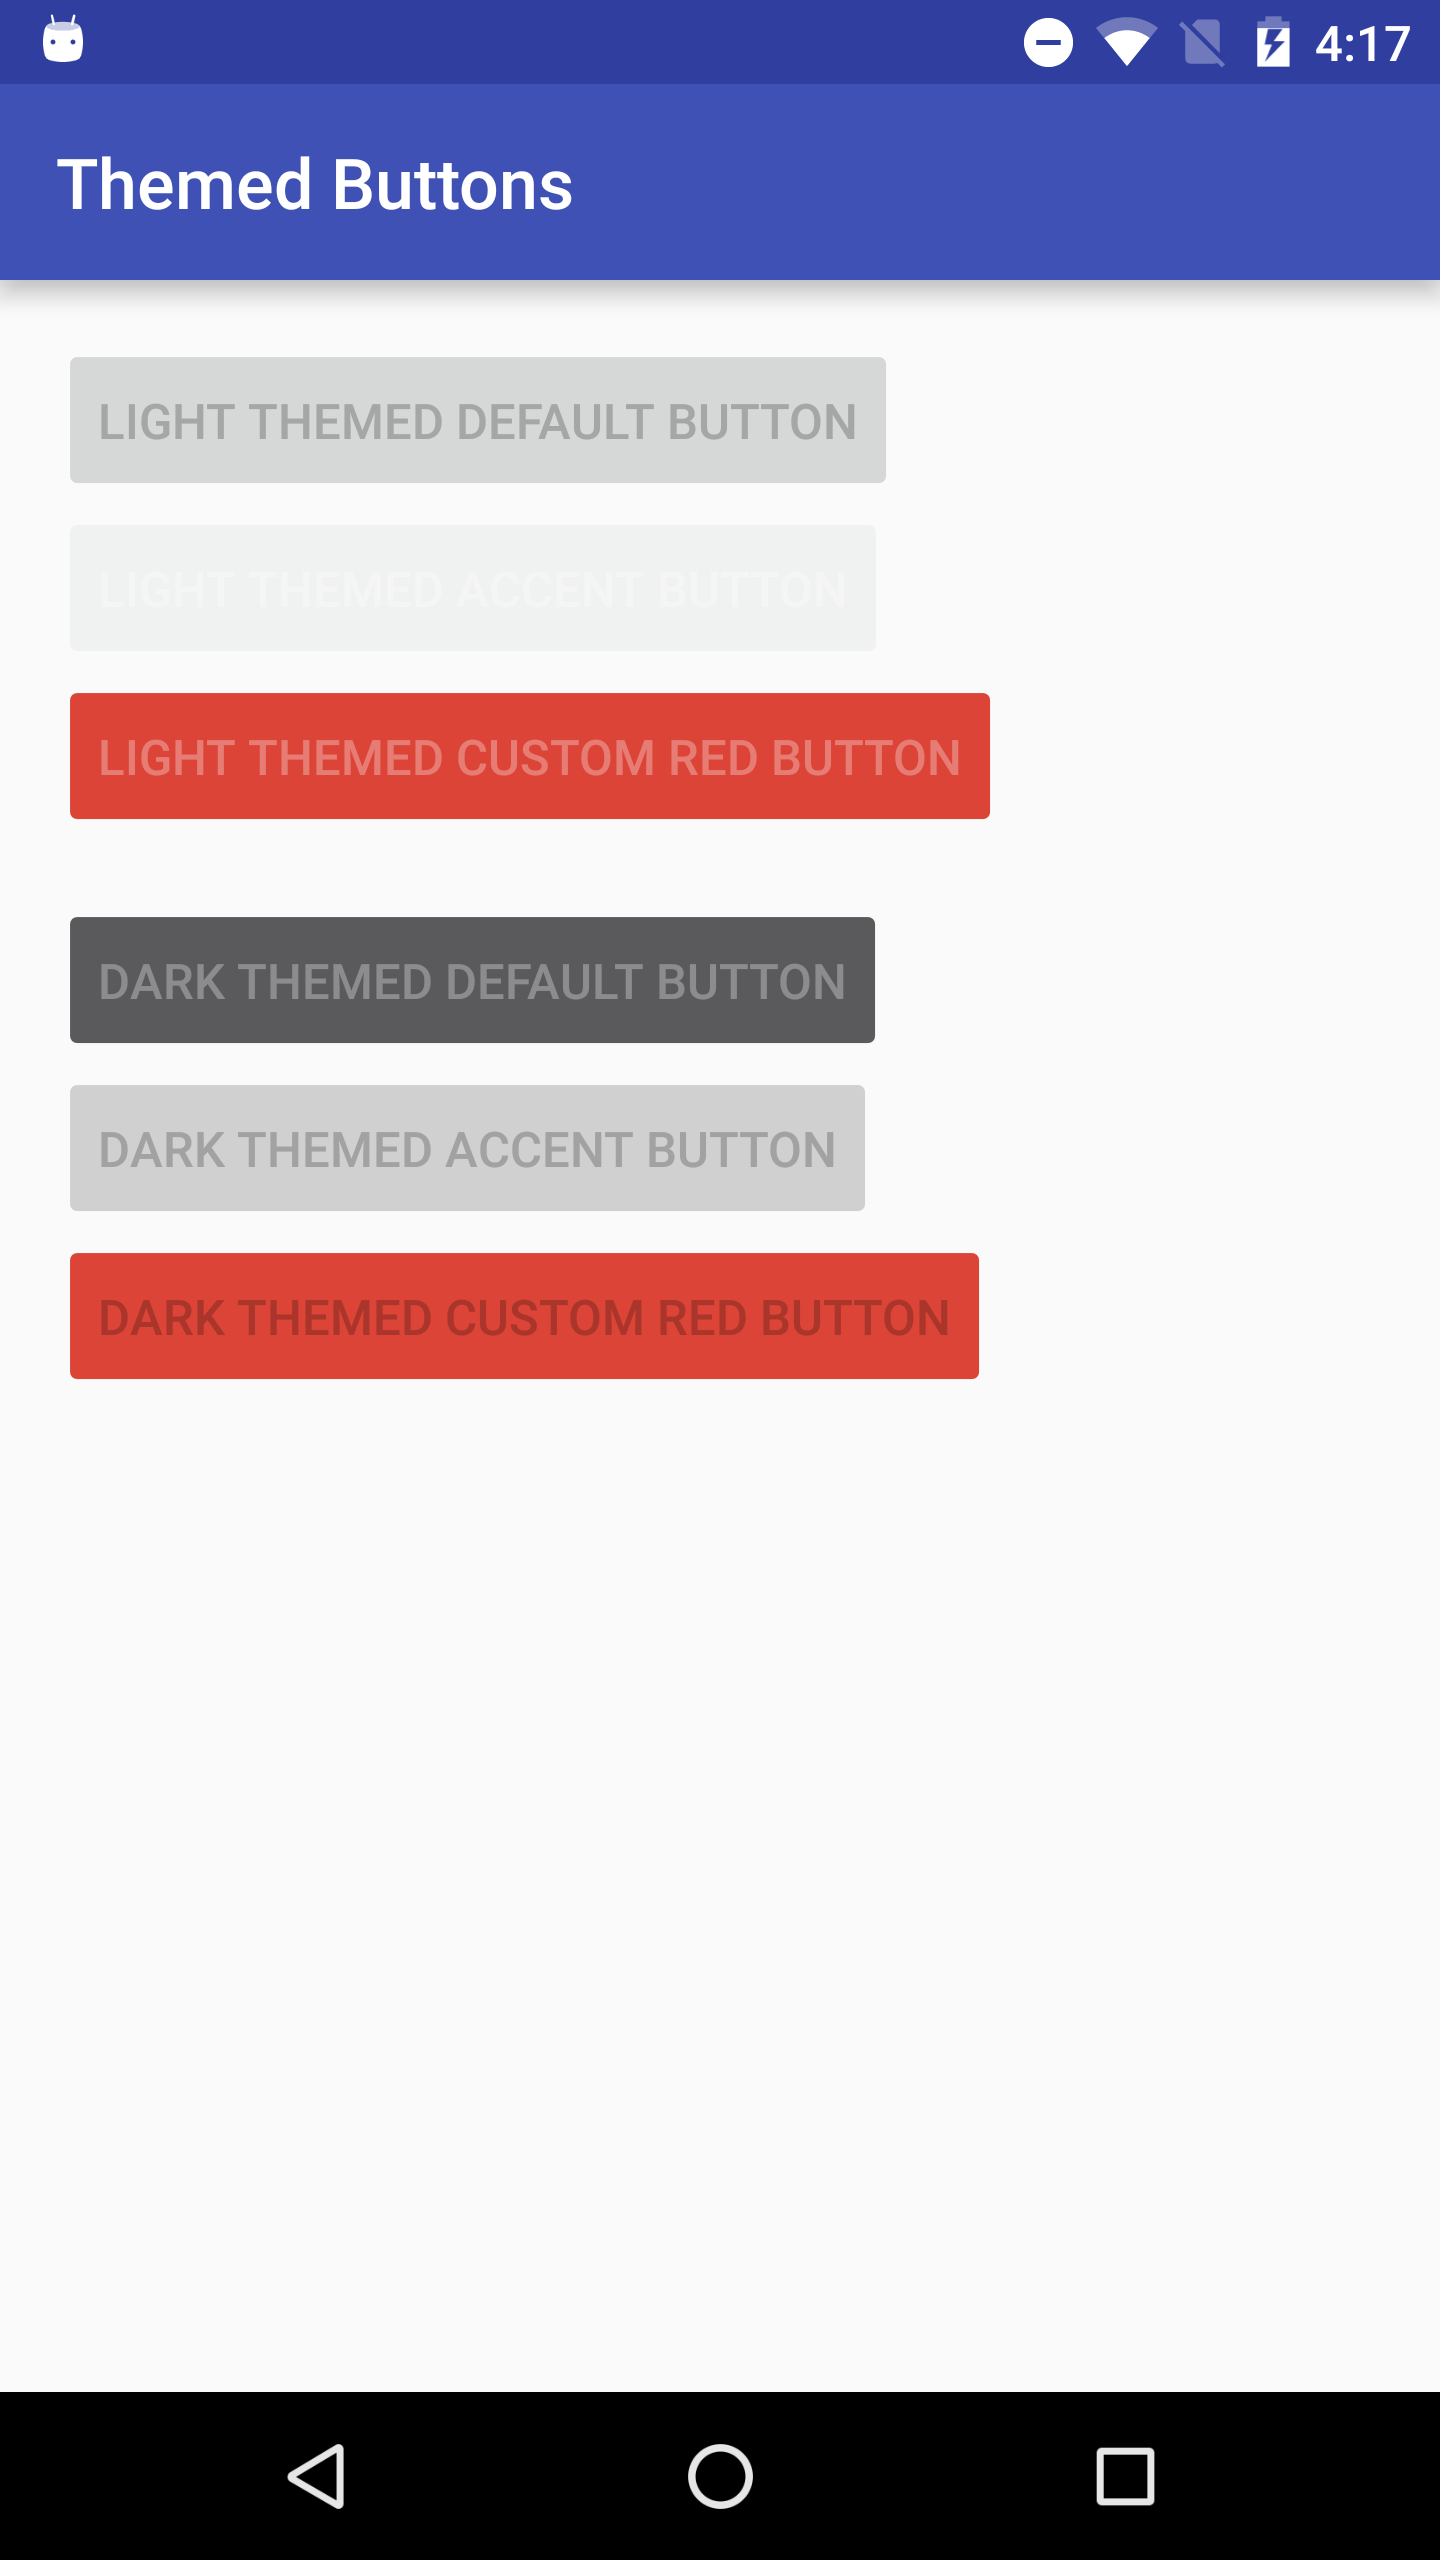
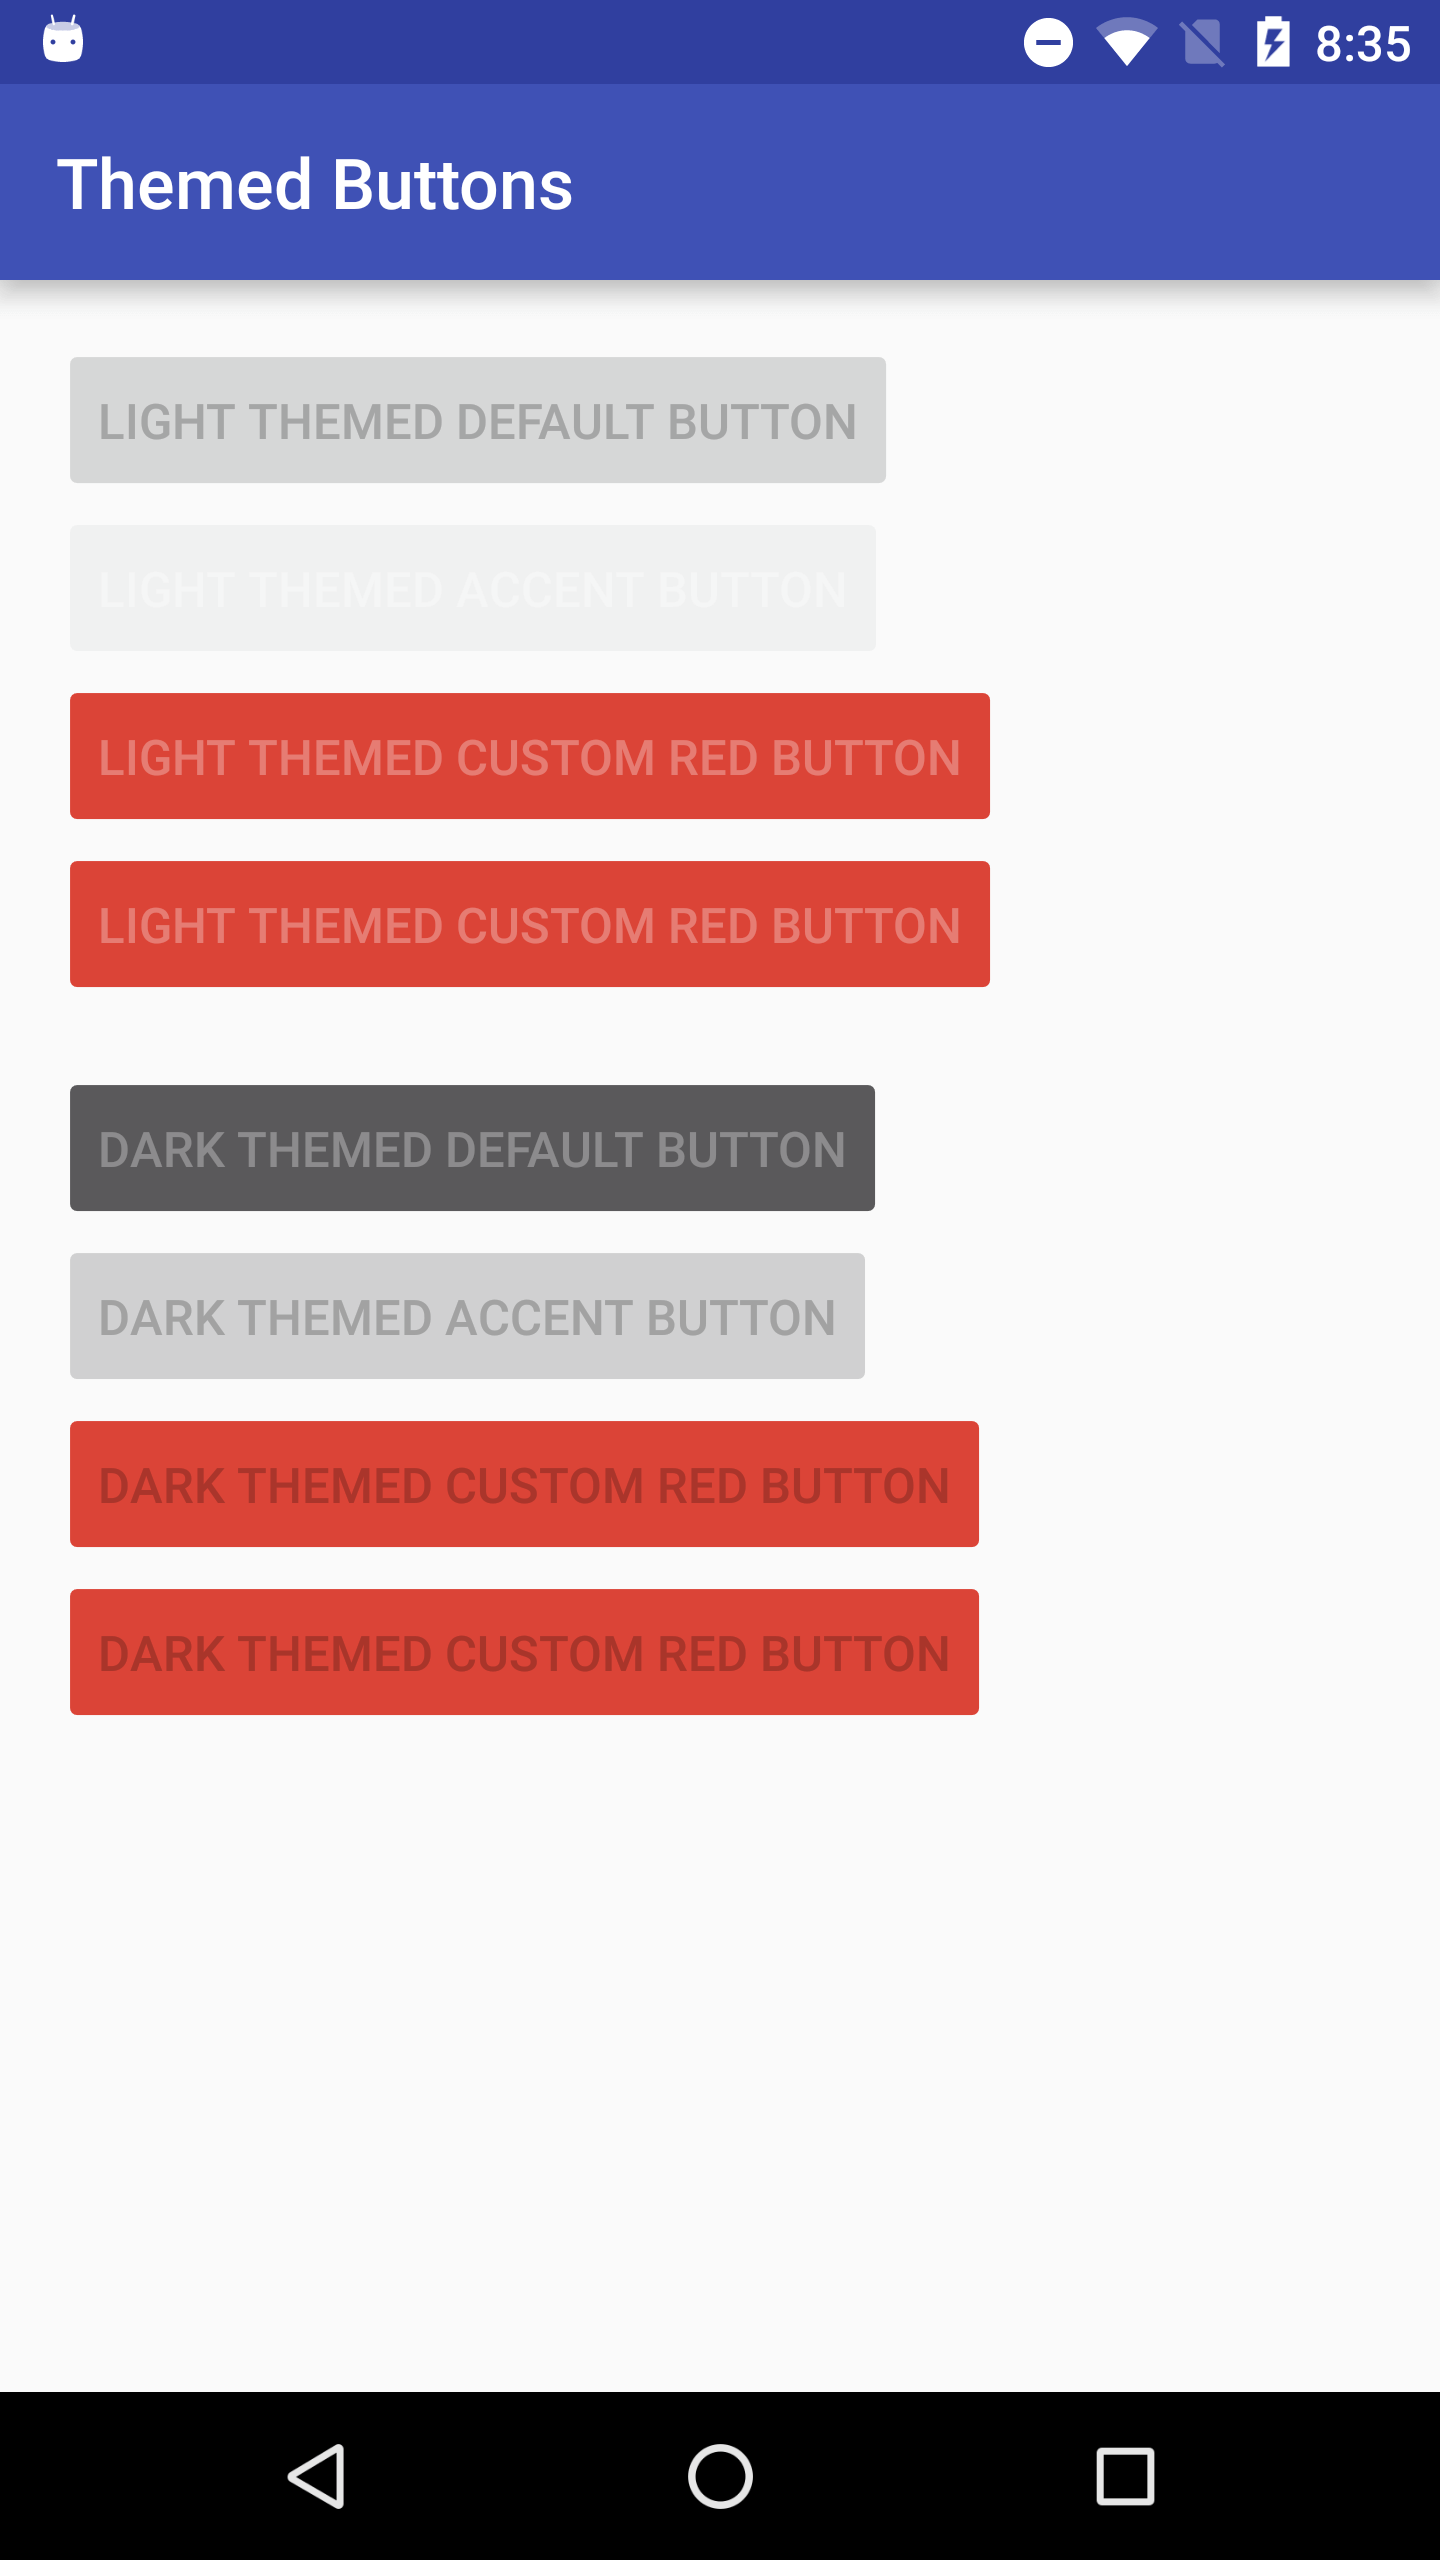
Update blog post on button themes

Changed region(s): [[0.0312, 0.3125, 0.6875, 0.6875], [0.9062, 0.0, 0.9688, 0.0312]]

diff --git a/_posts/2016-08-06-theming-buttons-with-themeoverlays.md b/_posts/2016-08-06-theming-buttons-with-themeoverlays.md
@@ -163,7 +163,7 @@ and set it on the button in the layout XML:
     android:theme="@style/LightCustomRedButtonTheme"/>
 ```
 
-And that's it, you're done!<sup><a href="#footnote3" id="ref3">3</a></sup>
+And that's it!<sup><a href="#footnote3" id="ref3">3</a></sup>
 
 You're probably still wondering what's up with that weird
 `ThemeOverlay` though. Unlike the themes we use in our `AndroidManifest.xml`
@@ -179,7 +179,7 @@ would have otherwise been used by default. If you want to read more about
 `ThemeOverlay`s, check out [this Medium post][ThemeOverlayBlogPost] and this
 [Google+ pro tip][ThemeOverlayProTip] by [Ian Lake](http://google.com/+IanLake)!
 
-### Understanding AppCompat background tints
+### Approach #2: Setting the `AppCompatButton`'s background tint
 
 ### Pop quiz!
 
@@ -235,6 +235,13 @@ What will the following XML look like in the application?
         android:text="..."
         android:theme="@style/LightCustomRedButtonTheme"/>
 
+    <android.support.v7.widget.AppCompatButton
+        android:layout_width="wrap_content"
+        android:layout_height="wrap_content"
+        android:text="..."
+        android:textColor="?android:textColorPrimaryInverse"
+        app:backgroundTint="@color/quantum_googred500"/>
+
     <Button
         android:layout_width="wrap_content"
         android:layout_height="wrap_content"
@@ -253,6 +260,13 @@ What will the following XML look like in the application?
         android:layout_height="wrap_content"
         android:text="..."
         android:theme="@style/DarkCustomRedButtonTheme"/>
+
+    <android.support.v7.widget.AppCompatButton
+        android:layout_width="wrap_content"
+        android:layout_height="wrap_content"
+        android:text="..."
+        android:textColor="?android:textColorPrimary"
+        app:backgroundTint="@color/quantum_googred500"/>
 </LinearLayout>
 ```
 
